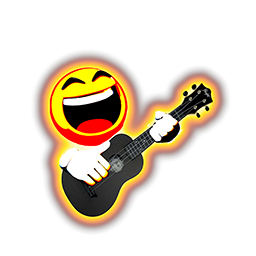
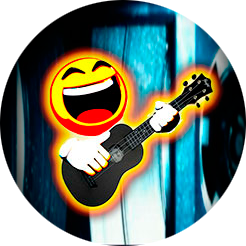
link3 style ok

diff --git a/index.html b/index.html
@@ -4,85 +4,143 @@
 <head>
   <meta charset="UTF-8">
   <meta name="viewport" content="width=device-width, initial-scale=1.0">
-  <title>ALIS (Акустическая песня) </title>
+  <title>ALIS (Акустическая песня)</title>
   <style>
     body {
+      /* background: url("res/back.png") no-repeat center center fixed; */
+      background: url("res/grid10N.bmp");
+      /* background-size: cover; */
       margin: 0;
       font-family: Arial, sans-serif;
-      /*  */
-      background: url("res/back.png") no-repeat center center fixed;
-      background-size: cover;
-      color: white;
+      color: #00b5f1;
+      background-color: #00445b;
       display: flex;
       flex-direction: column;
       align-items: center;
       justify-content: flex-start;
       min-height: 100vh;
       text-align: center;
-      padding: 40px 20px;
+      padding: 20px 20px;
+      position: relative;
+      /* overflow: hidden; */
+      overflow: auto;
+      box-sizing: border-box;
     }
 
     .avatar {
       width: 120px;
       height: 120px;
       border-radius: 50%;
-      border: 3px solid white;
-      margin-bottom: 20px;
+      border: 3px solid #00b5f1;
+      /* Белый бордюр */
+      margin-top: 10px;
+      margin-bottom: 10px;
       background: url("res/av.png") center/cover no-repeat;
+      box-shadow: 0 4px 8px rgba(0, 0, 0, 1);
+      /* Тень вокруг аватара */
     }
 
     h1 {
       margin: 10px 0;
       font-size: 1.8em;
-      text-shadow: 1px 1px 4px rgba(0, 0, 0, 0.6);
+      text-shadow: 5px 5px 10px rgba(0, 0, 0, 1);
     }
 
     p {
       margin: 5px 0 20px;
       font-size: 1em;
       opacity: 0.9;
-      text-shadow: 1px 1px 3px rgba(0, 0, 0, 0.5);
+      text-shadow: 3px 3px 5px rgba(0, 0, 0, 0.5);
     }
 
     .link {
       display: block;
+      /* Flexbox для выравнивания иконки и текста */
+      text-align: center;
       width: 90%;
-      max-width: 300px;
+      max-width: 150px;
       margin: 10px auto;
-      padding: 12px;
+      padding: 12px 12px 12px 20px;
+      /* Отступы внутри кнопки */
       border-radius: 8px;
+      border: 2px solid #00b5f1;
+      /* Полупрозрачный белый бордюр */
       background: rgba(0, 0, 0, 0.4);
-      color: white;
+      color: #00b5f1;
       text-decoration: none;
       font-weight: bold;
-      transition: background 0.3s;
-      backdrop-filter: blur(4px);
+      transition: background 0.3s, box-shadow 0.3s;
+      text-shadow: 2px 2px 5px black;
+      box-shadow: 2px 2px 5px black;
     }
 
     .link:hover {
       background: rgba(0, 0, 0, 0.6);
+      box-shadow: 2px 2px 2px black;
+    }
+
+    .icon {
+      width: 24px;
+      height: 24px;
+      margin-right: 8px;
+      flex-shrink: 0;
+      vertical-align: middle;
+    }
+
+    .icon2 {
+      width: 48px;
+      height: 24px;
+      margin-right: 8px;
+      flex-shrink: 0;
+      vertical-align: middle;
     }
 
     footer {
-      margin-top: auto;
+      margin-top: 20px;
       opacity: 0.8;
-      font-size: 0.8em;
-      text-shadow: 1px 1px 2px rgba(0, 0, 0, 0.5);
+      font-size: 1em;
+      text-shadow: 2px 2px 2px black;
     }
   </style>
 </head>
 
 <body>
   <div class="avatar"></div>
-  <h1>ALIS</h1>
-  <p>(Акустическая песня)</p>
-
-  <a href="https://youtube.com/@alis_akpes" class="link">🔶 Канал YouTube 🔶</a>
-  <a href="https://vk.com/alis_akpes" class="link">🔷 VK Сообщество ВКонтакте 🔷</a>
-  <a href="https://t.me/alis_akpes" class="link">🔷 Канал Telegram 🔷</a>
+  <!-- <h1>ALIS (Акустическая песня)</h1> -->
+  <h1>
+    Акустическая песня
+  </h1>
+  <!-- stihi -->
+  <a href="https://stihi.ru/alis1441" class="link">
+    <img src="res/Stihi.jpg" class="icon2">Stihi.ru
+  </a>
+  <!-- telegram -->
+  <a href="https://t.me/alis1441" class="link">
+    <img src="res/Telegram.png" class="icon">Telegram
+  </a>
+  <!-- youtube -->
+  <a href="https://youtube.com/@alis1441" class="link">
+    <img src="res/Youtube.png" class="icon">YouTube
+  </a>
+  <!-- vk -->
+  <a href="https://vk.com/alis1441" class="link">
+    <img src="res/VK.png" class="icon">VKontakte</a>
+  <!-- mail -->
+  <script>
+    const user = "alis";
+    const domain = "alis1441.ru";
+    document.write('<a href="#" class="link" onclick="copyText(\'' + user + '@' + domain + '\')"> <img src="res/Mail.png" class="icon">E-mail</a>');
+  </script>
+  <script>
+    function copyText(text) {
+      navigator.clipboard.writeText(text).then(() => {
+        alert("Адрес скопирован: " + text);
+      });
+    }
+  </script>
 
   <footer>
-    © 2025 ALIS
+    Алексей [ALIS] Лисицын, 2025
   </footer>
 </body>
 
